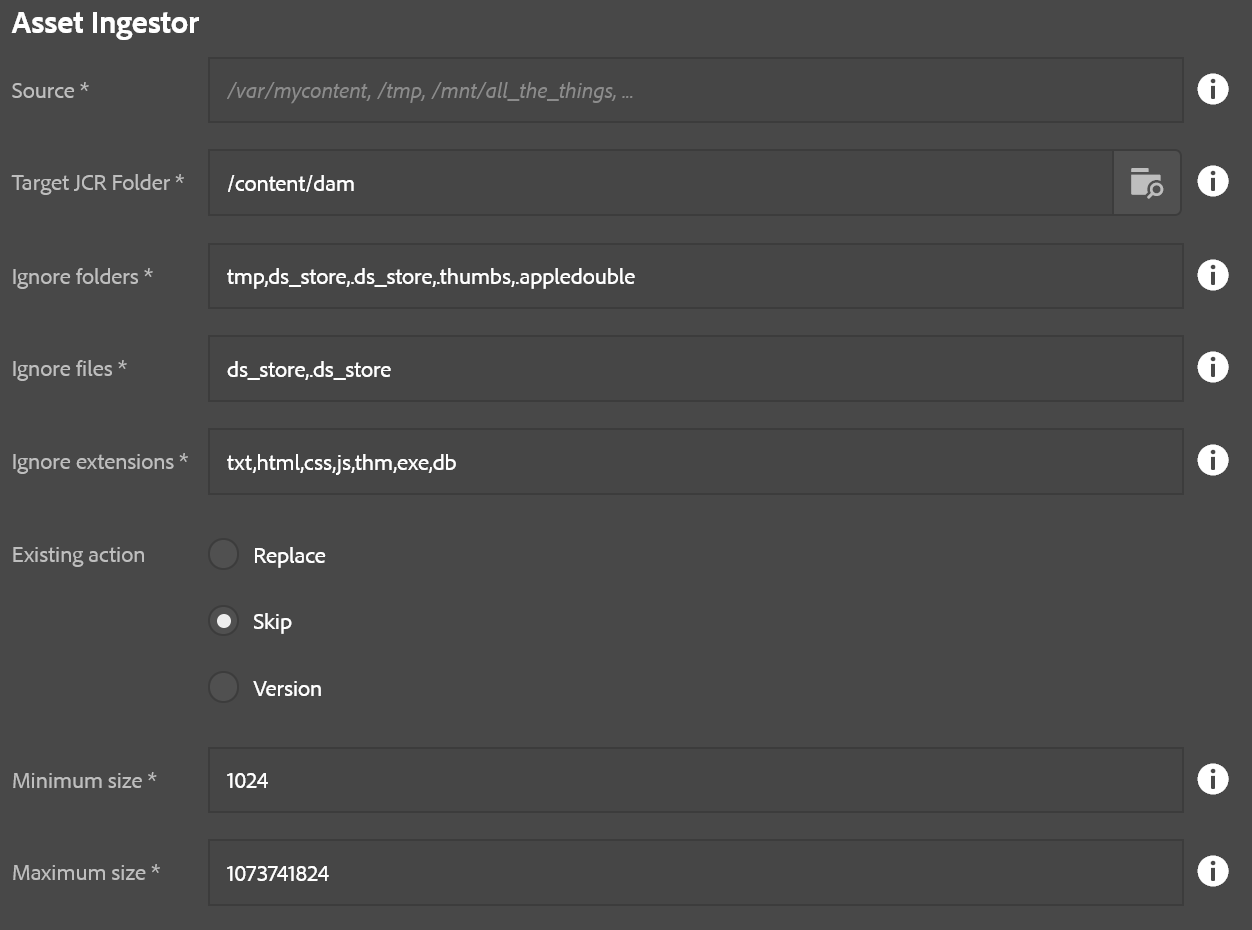
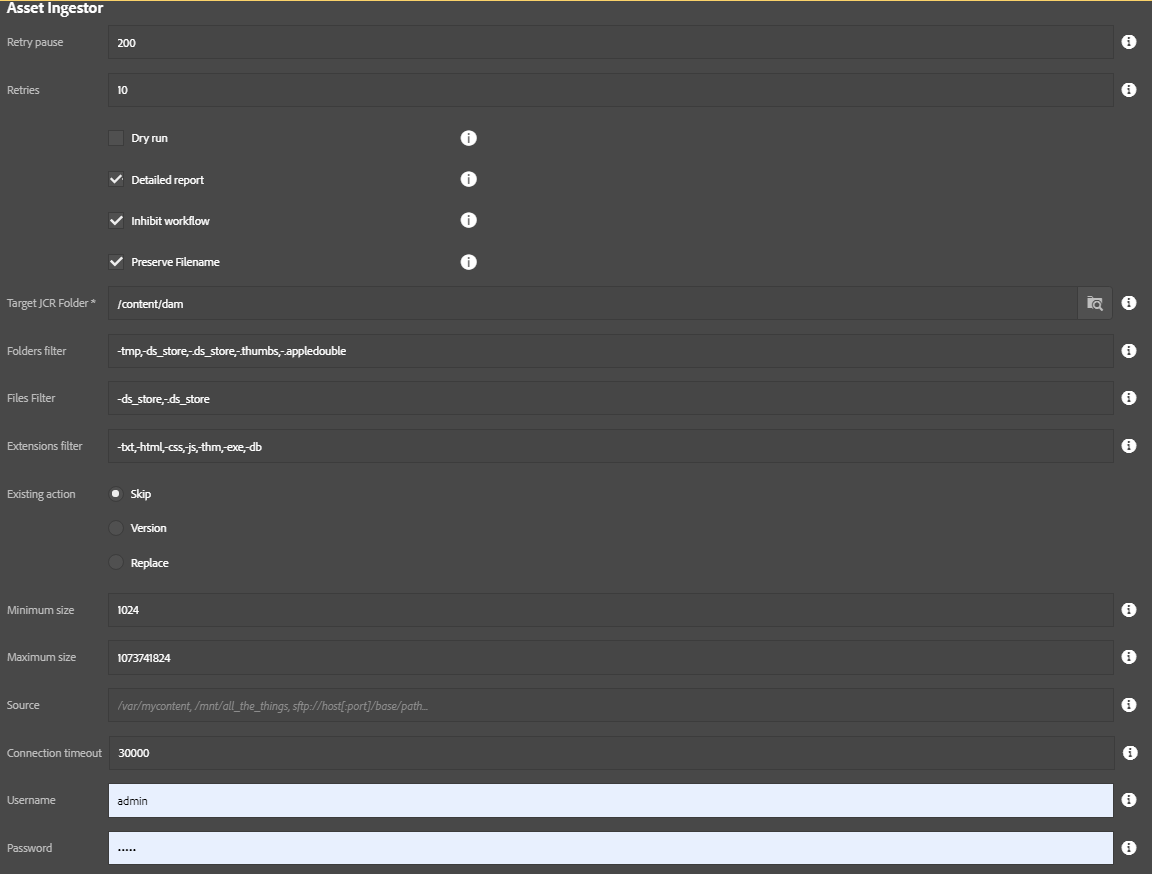
Adobe-Consulting-Services/acs-aem-commons#1644 updating Asset Ingestor docs

diff --git a/_acs-aem-commons/features/mcp-tools/asset-ingestion/asset-ingestor/index.md b/_acs-aem-commons/features/mcp-tools/asset-ingestion/asset-ingestor/index.md
@@ -11,20 +11,26 @@ This is an example of a high-speed parallel asset ingestor utility.  You can loa
 
 ![Asset Ingestor](./images/asset-ingestor.png)
 
-* **Source**: Location in the local filesystem.  This can be a mapped/mounted network drive too.
+* **Retry pause**: Used as retry pause between createFolder, createAsset actions and etc...
+* **Retries**: Actions to attempt.
+* **Dry run**: If checked, no assets will be imported but a report will be produced.  This is useful for testing out the data file for integrity.
+* **Detailed Report**: If checked, a list of all imported assets will be produced.  If unchecked, only a summary will be provided.
+* **Inhibit Workflow**: If checked, the process will attempt to bypass DAM Update Asset workflow.  This requires the workflow launcher have the following in the _exclude list_ setting: `event-user-data:changedByWorkflowProcess`.  If using this option. also consider using bulk workflow afterwards to process assets after the import has finished completely.
+* **Preserve Filename**: If checked, file name is preserved as asset name.  If unchecked, asset name will support only the following characters: letters, digits, hyphens, underscores, another chars will be replaced with hyphens.
 * **Target JCR Folder**: Where to store the assets in AEM
-* **Ignore folders**: Comma-delimited list of folders to skip, useful for bypassing thumnail folders and such
-* **Ignore files**: Comma-delimited list of files to skip, also useful for bypassing additional metadata files which might not be useful in a DAM setting.
-* **Ignore extensions**: Comma-delimited list of file extensions to skip.
+* **Folders filter**: Comma-delimited list of folders to filter, useful for bypassing thumnail folders and such. If you want to exclude folder name add '-' sign before name. If you want to include name, just write folder name or add '+' sign before name.
+* **Files filter**: Comma-delimited list of files to filter, also useful for bypassing additional metadata files which might not be useful in a DAM setting. If you want to exclude file name add '-' sign before name. If you want to include name, just write file name or add '+' sign before name.
+* **Extensions filter**: Comma-delimited list of file extensions to filter. If you want to exclude extension add '-' sign before name. If you want to include extension, just write extension or add '+' sign before name.
 * **Existing action**: Decide what should happen if the DAM contains a target file already, such as if the ingestion is resumed after a previous abort
     * Replace: Replace the asset already in AEM (this can slow things down compared to skip)
     * Skip: Skip the asset
     * Version: Create a version of the asset and upload a fresh copy.  This is the safest, but slowest, option.
 * **Minimum size**: The minimum file size (in bytes) that is required for importing a file.  Anything smaller is ignored. (0 = no minimum)
 * **Maximum size**: The maximum file size allowed (in bytes); anything larger is skipped. (-1 = no maximum -- NOT RECOMMENDED!)
-* **Dry run**: If checked, no assets will be imported but a report will be produced.  This is useful for testing out the data file for integrity.
-* **Detailed Report**: If checked, a list of all imported assets will be produced.  If unchecked, only a summary will be provided.
-* **Inhibit Workflow**: If checked, the process will attempt to bypass DAM Update Asset workflow.  This requires the workflow launcher have the following in the _exclude list_ setting: `event-user-data:changedByWorkflowProcess`.  If using this option. also consider using bulk workflow afterwards to process assets after the import has finished completely.
+* **Source**: Source folder for content ingestion which can be a local folder or SFTP url.
+* **Connection timeout**: For SFTP urls, this is the connection timeout in milliseconds (default is 30 seconds)
+* **Username**: Username for SFTP connection
+* **Password**: Password for SFTP connection
 
 This process has two steps:
 
